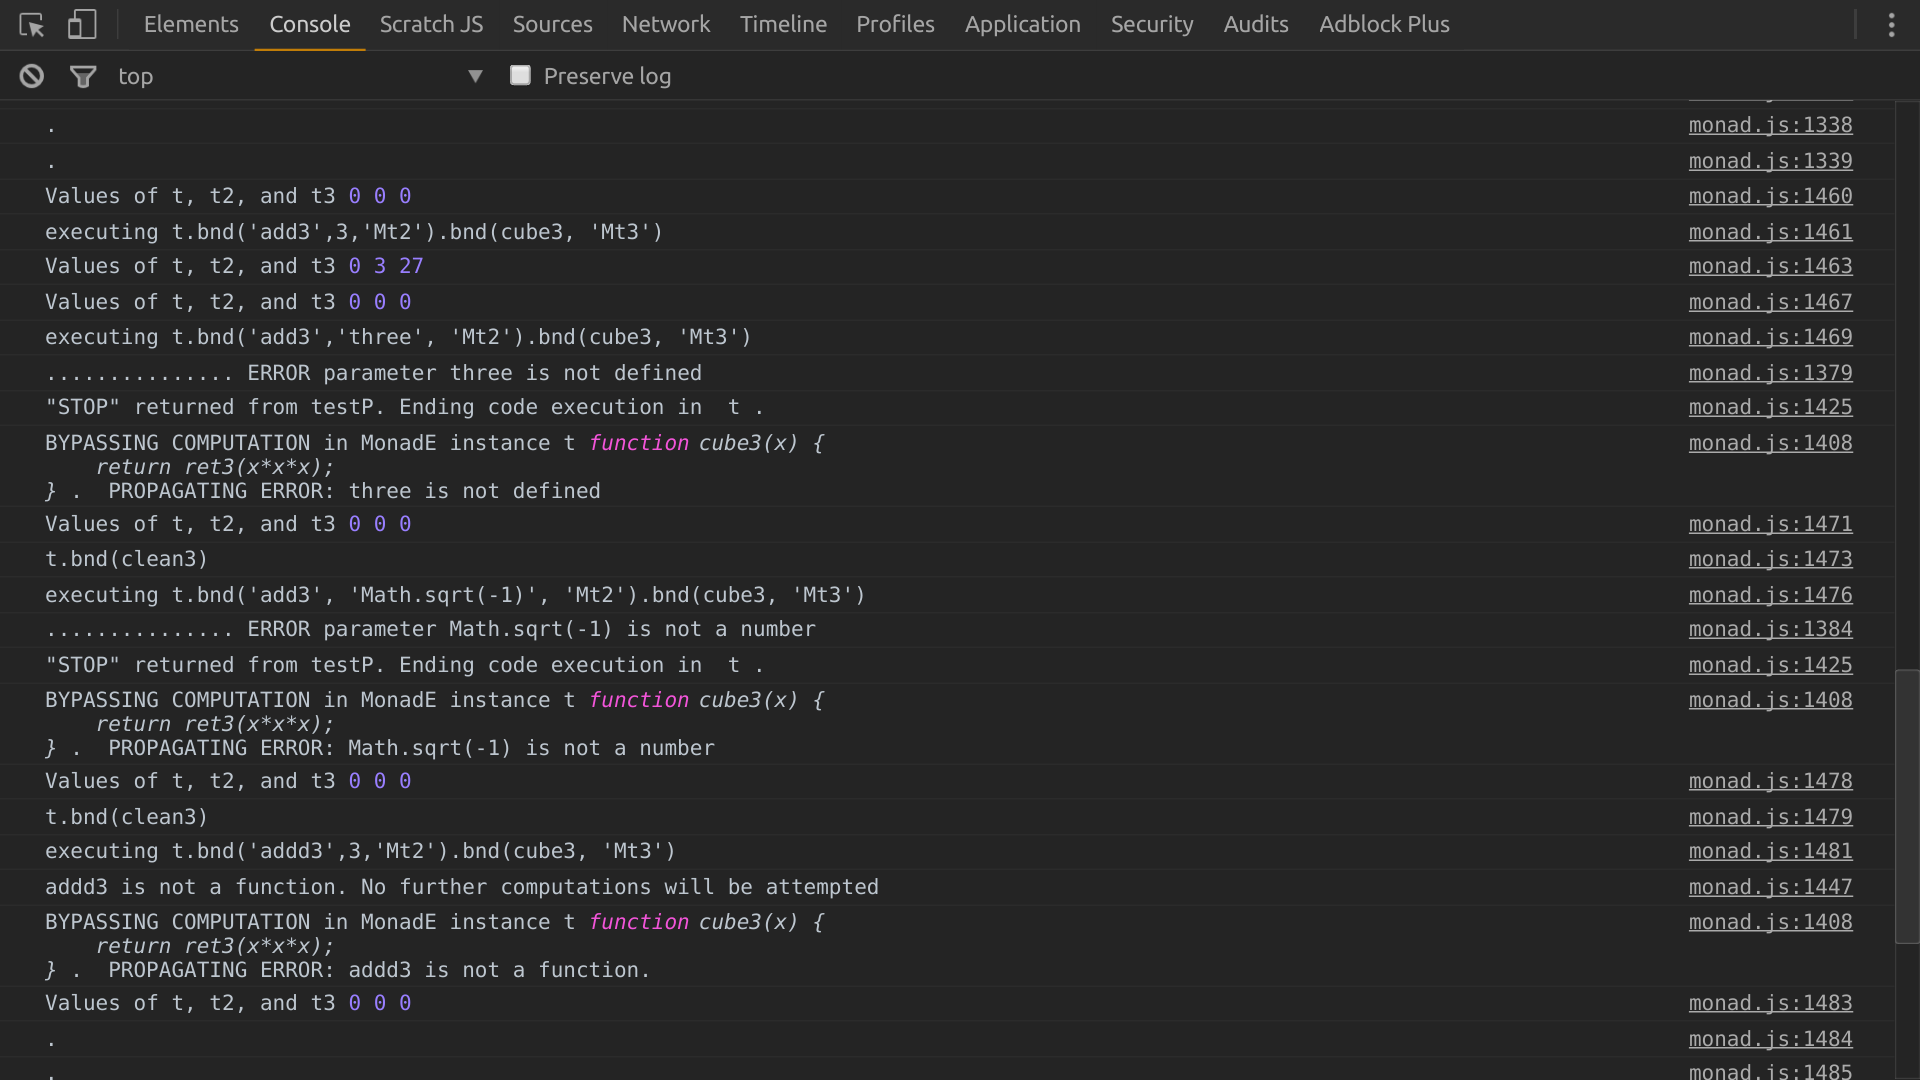
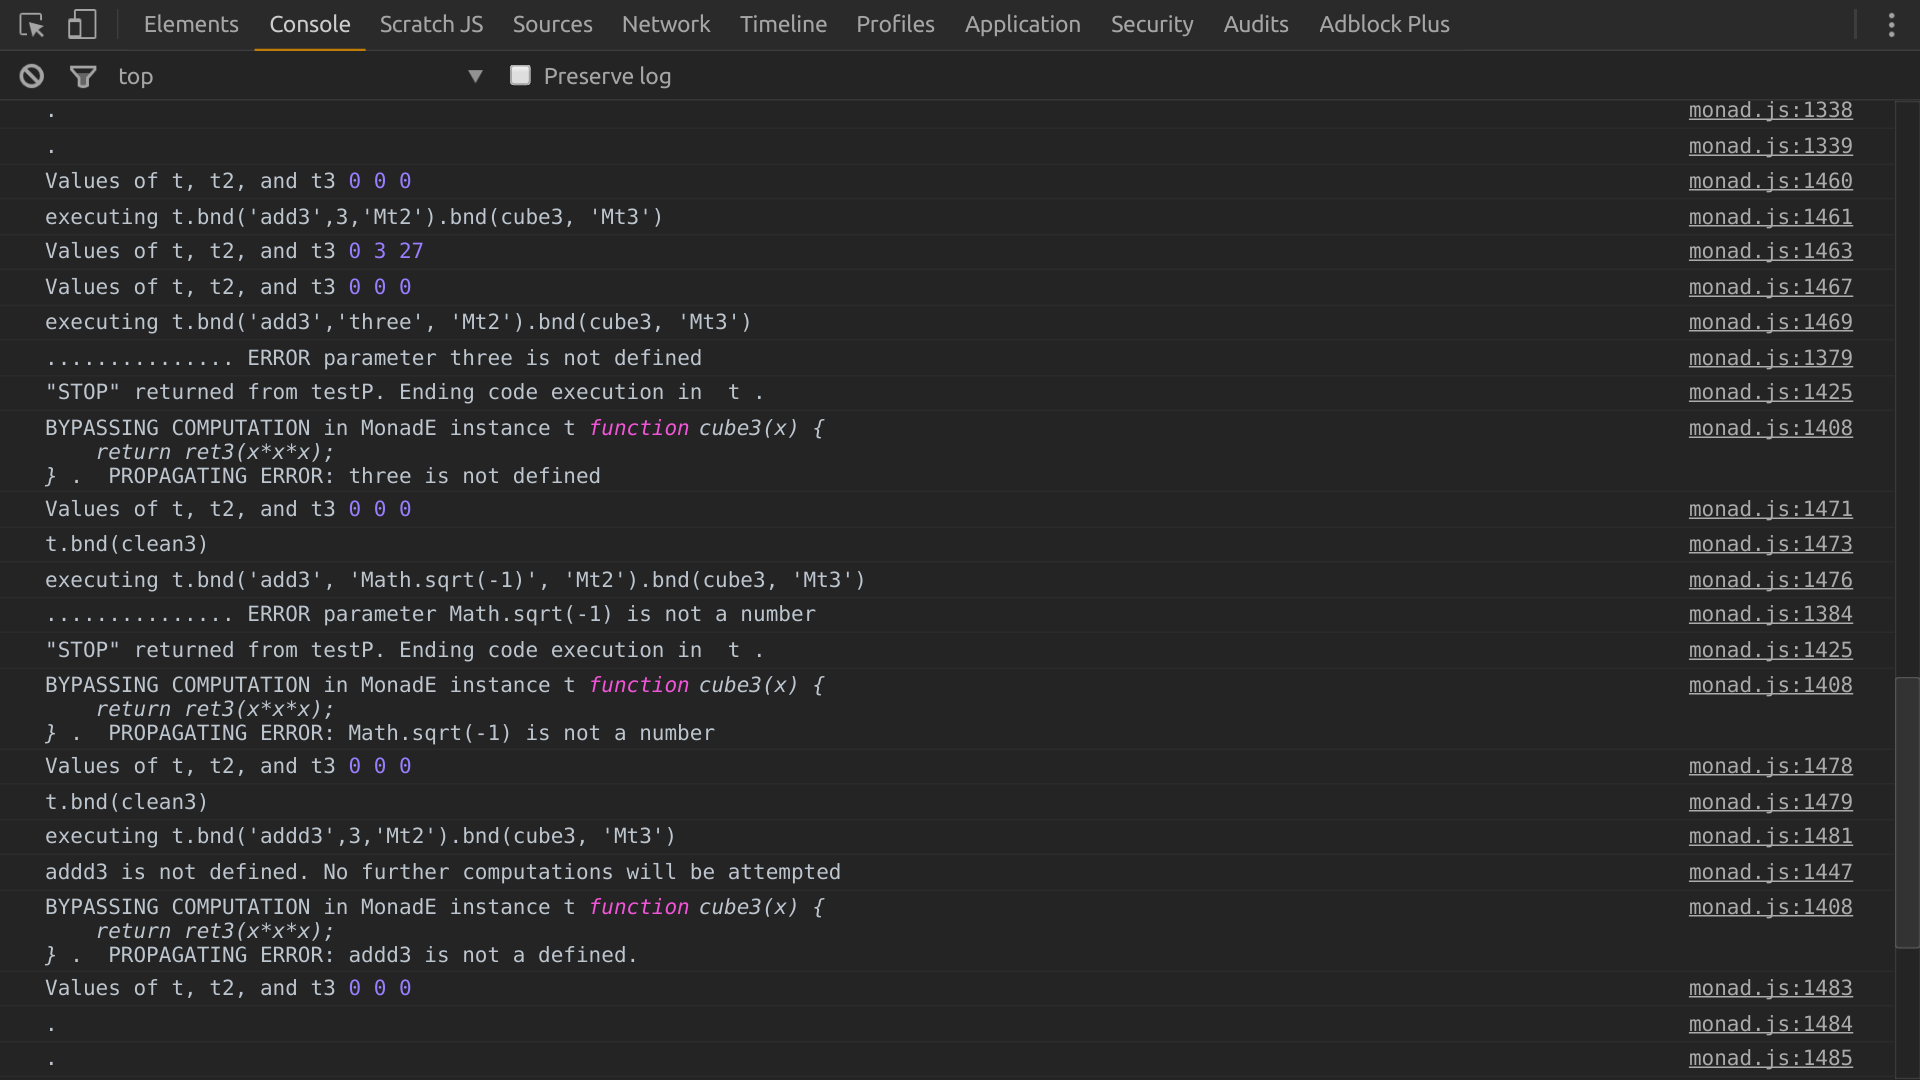
Modified MonadEr

diff --git a/src/dist/bundle.js b/src/dist/bundle.js
@@ -4997,7 +4997,7 @@
 
 	var playerMonad = (0, _dom.h)('pre', '  var playerMonad = new MonadState(\'playerMonad\', [0,0], [0,0], player_state);\n\n  function player_state (v) {\n    var x = v.slice();\n    let ar = [ \n    pMscore.ret(x[0]),\n    pMgoals.ret(x[1]) ]\n    playerMonad.a = ar;\n    playerMonad.s = ar;  \n    return x; \n  };  ');
 
-	var MonadSet = (0, _dom.h)('pre', '  var MonadSet = function MonadSet(set, str) {\n    var ob = {\n      ID: str,\n      s: set,  \n      bnd: (func, ...args) => func(ob.s, ...args),\n      add: a => MonadSet(s.add(a), ob.id),\n      delete: a => MonadSet(s.delete(a), ob.id),\n      clear: () => MonadSet(s.clear(), ob.id)\n    };\n    return ob;\n  };\n\n  var s = new Set();\n\n  var sMplayers = MonadSet(s, \'sMplayers\'); // holds currently online players  ');
+	var MonadSet = (0, _dom.h)('pre', '    var MonadSet = function MonadSet(set, str) {\n      var _this = this;\n      this.id = str;\n      this.s = new Set();  \n  };\n\n  var s = new Set();\n\n  var sMplayers = MonadSet(s, \'sMplayers\'); // holds currently online players  ');
 
 	var promise = (0, _dom.h)('pre', '      var promise = function promise(x, t, mon, args) {\n        return (new Promise((resolve) => {\n          setTimeout(function() {\n            resolve(eval("mon.ret(x).bnd(" + args + ")"))   // eval! Get over it, Douglas.\n          },t*1000  );\n        }));\n      };  ');
 

diff --git a/src/dist/monad.js b/src/dist/monad.js
@@ -1409,14 +1409,14 @@ function MonadEr (val, ID, er = []) {
       return _this;  
     }
     var a;
-    if (typeof f == 'function') {
-      a = 'function';
+    if (typeof f == 'undefined') {
+      a = 'undefined';
     }
     else if (typeof f === 'string') {
       var x = ("typeof " + f);
       a = eval(x);
     }
-    if (a == 'function' && args.length > 0) {
+    if (a !== 'undefined' && args.length > 0) {
       var arr = args.filter(v => !(typeof v == 'string' && v.charAt() == 'M' && v.slice(0,4) !== 'Math'))
         
       arr.map(v => {
@@ -1443,8 +1443,8 @@ function MonadEr (val, ID, er = []) {
       }
     } 
     else {
-      _this.e.push(f + ' is not a function. ');
-      console.log(f, 'is not a function. No further computations will be attempted');
+      _this.e.push(f + ' is not a defined. ');
+      console.log(f, 'is not defined. No further computations will be attempted');
       return _this;
     }  
   }
